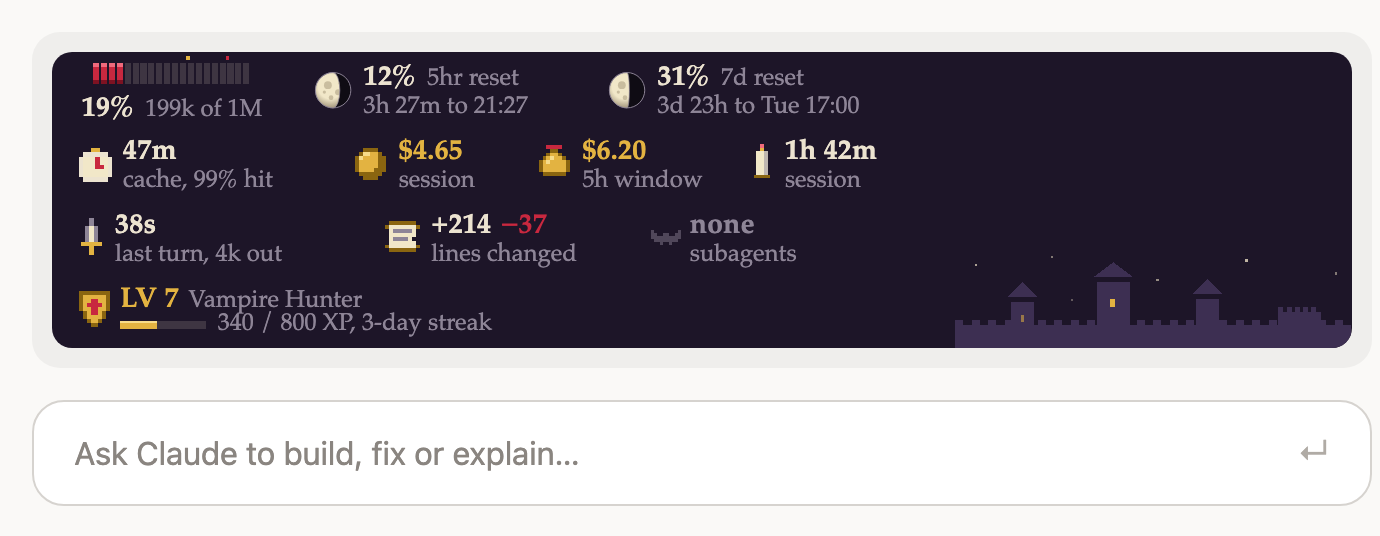
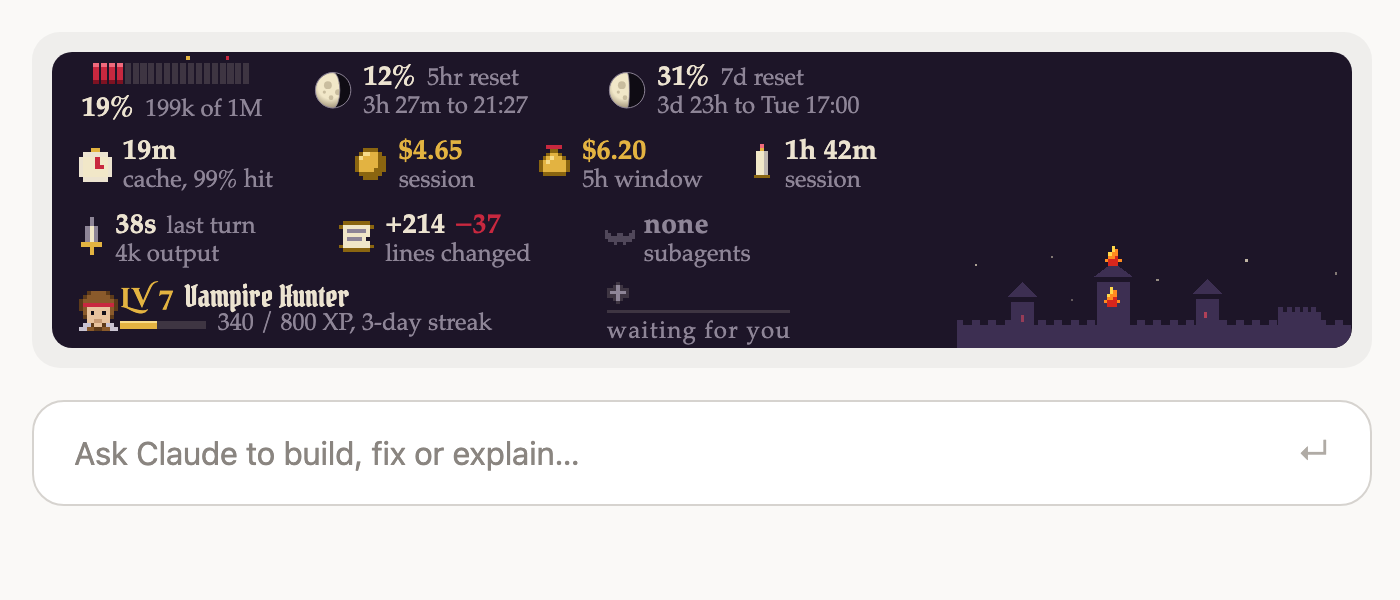
Fix seven audit findings (0.12.1)
- Level in Cinzel capitals, title in Pirata blackletter; wider estimate so the
  serif fallback is never clipped
- README/LICENSE/plugin.json: fonts are OFL-1.1, code MIT
- Re-rendered README screenshots; reset message; README cache and file notes
- Reproducible font build; bold fallback named as bold
- applyCacheTtl updates the cache as it stands when written

diff --git a/hooks/fonts.ts b/hooks/fonts.ts
@@ -1,5 +1,5 @@
 // Generated by fonts/build.py: do not edit. Trimmed, renamed copies of Pirata One (Gothic) and
 // Cinzel Decorative Bold (Capitals), both under the SIL Open Font License 1.1 (see fonts/).
 
[4 lines of base64/hex data omitted]

diff --git a/hooks/svg.ts b/hooks/svg.ts
@@ -95,10 +95,10 @@ function litMoon(cx: number, cy: number, r: number, light: number): string {
 /** `gothic`: the section's text uses the embedded display fonts, which then travel in its image. */
 type Section = { width: number; body: (x: number) => string; gothic?: boolean }
 
-// The level line's lettering: a blackletter in the Castlevania spirit, carved fantasy capitals in the Warcraft
-// spirit as its fallback, then the band's serif. Both are trimmed OFL fonts embedded in the image that uses them
+// The level line's lettering: the title in a blackletter in the Castlevania spirit, the level in carved fantasy
+// capitals in the Warcraft spirit; each falls back on the other, then the band's serif. Both are trimmed OFL fonts embedded in the image that uses them
 // (an image can't load fonts from the web): see fonts/.
-const GOTHIC_FACES = `@font-face{font-family:'CastleHud Gothic';src:url(data:font/woff2;base64,${GOTHIC_WOFF2}) format('woff2')}@font-face{font-family:'CastleHud Capitals';src:url(data:font/woff2;base64,${CAPITALS_WOFF2}) format('woff2')}.g{font-family:'CastleHud Gothic','CastleHud Capitals',Palatino,'Palatino Linotype','Book Antiqua',Georgia,serif;font-weight:400;letter-spacing:.02em}`
+const GOTHIC_FACES = `@font-face{font-family:'CastleHud Gothic';src:url(data:font/woff2;base64,${GOTHIC_WOFF2}) format('woff2')}@font-face{font-family:'CastleHud Capitals';src:url(data:font/woff2;base64,${CAPITALS_WOFF2}) format('woff2')}.g{font-family:'CastleHud Gothic','CastleHud Capitals',Palatino,'Palatino Linotype','Book Antiqua',Georgia,serif;font-weight:400;letter-spacing:.02em}.cap{font-family:'CastleHud Capitals','CastleHud Gothic',Palatino,'Palatino Linotype','Book Antiqua',Georgia,serif}`
 
 function textBlock(x: number, value: string, caption: string, valueColor = 'var(--ink)'): string {
   return `<text x="${x}" y="27" class="v" fill="${valueColor}">${esc(value)}</text><text x="${x}" y="50" class="c">${esc(caption)}</text>`
@@ -296,13 +296,15 @@ ${sprite(BAG, { X: 'var(--goldDark)', G: 'var(--gold)', H: 'var(--goldLight)', T
     const xpText = `${p.into} / ${p.need} XP${p.streak > 0 ? `, ${p.streak}-day streak` : ''}`
     const barW = 70
     const fill = Math.max(0, Math.min(1, p.need > 0 ? p.into / p.need : 0))
-    const firstW = value.length * VALUE_W + 8 + name.length * CAPTION_W
+    // The display lettering runs wider than the serif: room for the carved capitals and the blackletter, and for
+    // the serif fallback at these sizes should the fonts not load.
+    const firstW = value.length * 17 + 9 + name.length * 13
     const secondW = barW + 10 + xpText.length * CAPTION_W
     sections.push({
       width: 34 + Math.max(firstW, secondW),
       gothic: true,
       body: x => `<g transform="translate(${x} 0)">${sprite(TITLE_ICONS[p.title] ?? CREST, ICON_COLORS, 0, 14, 3.2)}
-<text x="34" y="27" class="g"><tspan fill="var(--gold)" font-size="27">${esc(value)}</tspan><tspan dx="9" font-size="24" fill="var(--ink)">${esc(name)}</tspan></text>
+<text x="34" y="27" class="g"><tspan class="cap" fill="var(--gold)" font-size="22">${esc(value)}</tspan><tspan dx="9" font-size="24" fill="var(--ink)">${esc(name)}</tspan></text>
 <rect x="34" y="38" width="${barW}" height="7" fill="var(--track)"/><rect x="34" y="38" width="${(barW * fill).toFixed(1)}" height="7" fill="var(--gold)"/><rect x="34" y="38" width="${(barW * fill).toFixed(1)}" height="2" fill="var(--goldLight)"/>
 <text x="${34 + barW + 10}" y="46" class="c">${esc(xpText)}</text></g>`,
     })

diff --git a/hooks/register.tsx b/hooks/register.tsx
@@ -516,9 +516,9 @@ async function followCacheTtl($: EngineInterface) {
 async function applyCacheTtl($: EngineInterface, ttl: number) {
   cacheTtlMs = ttl
   const c = await read($, cache)
-  if (c?.at && c.ttlMs !== cacheTtlMs) {
-    const ttlMs = cacheTtlMs
-    await update($, cache, () => ({ ...c, ttlMs }))
+  if (c?.at && c.ttlMs !== ttl) {
+    // Applied to the cache as it stands when written, not as read: a reply may have replaced it meanwhile.
+    await update($, cache, p => (p?.at ? { ...p, ttlMs: ttl } : p))
     convDirty = true
   }
 }
@@ -809,7 +809,7 @@ export const register: Register = on => {
       }
     if (arg === 'reset confirm') {
       await resetAll($)
-      return { text: 'Everything castle-hud saved is deleted. You start again at level 1.' }
+      return { text: 'Everything castle-hud recorded is deleted; your bell and cache settings stay. You start again at level 1.' }
     }
     const all = await syncProfile($, true)
     const p = await read($, profile)

diff --git a/fonts/build.py b/fonts/build.py
@@ -14,7 +14,8 @@ TEXT = ''.join(chr(c) for c in range(0x20, 0x7F))  # printable ASCII: the HUD's 
 
 
 def build(src: str, family: str) -> str:
-    font = TTFont(src)
+    # No fresh timestamp: the same sources build the same bytes.
+    font = TTFont(src, recalcTimestamp=False)
     opts = subset.Options()
     opts.flavor = 'woff2'
     opts.layout_features = ['kern', 'liga']
@@ -23,13 +24,17 @@ def build(src: str, family: str) -> str:
     s.populate(text=TEXT)
     s.subset(font)
     # A trimmed font is a modified version: it may not carry the reserved name.
+    style = str(font['name'].getDebugName(2) or 'Regular')  # Regular, Bold: kept as the source names it
     for rec in font['name'].names:
-        if rec.nameID in (1, 4, 16, 21):
+        if rec.nameID in (1, 16, 21):
             rec.string = family
+        elif rec.nameID == 4:
+            rec.string = family if style == 'Regular' else f'{family} {style}'
         elif rec.nameID in (3, 6):
-            rec.string = family.replace(' ', '') + '-Regular'
+            rec.string = family.replace(' ', '') + '-' + style.replace(' ', '')
     out = io.BytesIO()
     font.flavor = 'woff2'
+    font.recalcTimestamp = False
     font.save(out)
     return base64.b64encode(out.getvalue()).decode()
 

diff --git a/README.md b/README.md
@@ -87,7 +87,7 @@ Type `/castle` to see your level, where your XP came from and every achievement.
 
 ## Good to know
 
-- **Cache life.** Claude Code's prompt cache lasts either one hour or five minutes, depending on your account and model. The stopwatch counts down one hour from each reply unless you tell it otherwise. If your cache lasts five minutes, type `/castle cache 5m`; `/castle cache 1h` switches back, and `/castle cache` shows the current setting. The setting is remembered across sessions and kept by `/castle reset`. Claude Code reports the real cache life only when you switch model with `/model`, and the mod then updates the setting to match. A reply counts as warm when it comes within the cache's life, and the castle's fire follows the same countdown. A compaction or a model switch starts the stopwatch again.
+- **Cache life.** Claude Code's prompt cache lasts either one hour or five minutes, depending on your account and model. The stopwatch counts down one hour from each reply unless you tell it otherwise. If your cache lasts five minutes, type `/castle cache 5m`; `/castle cache 1h` switches back, and `/castle cache` shows the current setting. The setting is remembered across sessions and kept by `/castle reset`. Claude Code reports the real cache life only around a model switch (when you use `/model`, or when `/resume` restores a conversation's model), and the mod then updates the setting to match. A reply counts as warm when it comes within the cache's life, and the castle's fire follows the same countdown. A compaction or a model switch starts the stopwatch again.
 - **Subscription or API.** On a Claude subscription the band shows the moons and leaves out the coin and money bag, since you aren't billed per token. With an API key, or through a third-party provider, it shows the costs and leaves out the moons, which only a subscription has. Until the mod can tell, it shows both.
 - **The 5-hour total** counts only sessions running this mod, from when it was installed. Usage on claude.ai or in other tools isn't included.
 - **Lines changed** counts only Claude's Edit and Write tools. Files changed by shell commands such as `sed` or `git` aren't counted.
@@ -124,6 +124,9 @@ The mod is a Claude Code plugin made of function hooks:
 | `hooks/svg.ts` | The pixel-art drawing for the desktop app, and the castle |
 | `hooks/hud.ts` | Moons, the cache, line counting and formatting |
 | `hooks/xp.ts` | Levels, streaks and achievements |
+| `hooks/fonts.ts` | The level line's two fonts, trimmed and embedded (generated by `fonts/build.py`) |
+| `fonts/` | The fonts' licences and the script that builds `hooks/fonts.ts` |
+| `sounds/done.wav` | The bell |
 | `types/index.d.ts` | The mod's state, for type-checking |
 
 To try changes from a clone, start Claude Code with `claude --plugin-dir <this folder>`. To check them:
@@ -140,8 +143,8 @@ The screenshots and icons are renders of the mod's own drawing code with sample 
 
 ## Fonts
 
-The level line is lettered in two fonts under the SIL Open Font License 1.1: Pirata One by Rodrigo Fuenzalida and Nicolas Massi, with Cinzel Decorative by Natanael Gama as its fallback. The mod carries trimmed copies, renamed CastleHud Gothic and CastleHud Capitals as their licences require, with the licence texts and the build script in `fonts/`.
+The level line is lettered in two fonts under the SIL Open Font License 1.1: Pirata One by Rodrigo Fuenzalida and Nicolas Massi, with Cinzel Decorative by Natanael Gama as its fallback. The mod carries trimmed copies, renamed CastleHud Gothic and CastleHud Capitals as their licences require, with the licence texts and the build script in `fonts/`. They stay under that licence (see License below).
 
 ## License
 
-[MIT](LICENSE)
+The code is under the [MIT License](LICENSE). The fonts are not: `hooks/fonts.ts` and the files in `fonts/` are under the SIL Open Font License 1.1, whose text is in `fonts/`.

diff --git a/CHANGELOG.md b/CHANGELOG.md
@@ -1,5 +1,13 @@
 # Changelog
 
+## 0.12.1
+
+- The level is lettered in the carved capitals and the title in the blackletter, so "LV" no longer reads as "LU" and both fonts are used. The level line is sized so nothing is cut off, even if the fonts can't load.
+- The README's screenshots show the gothic lettering.
+- The licence notices say the fonts stay under the SIL Open Font License while the code is MIT.
+- The reset message says your bell and cache settings stay; the README describes when Claude Code reports the cache life and lists the font files.
+- The font build gives identical output on every run, and the bold fallback is named as bold.
+
 ## 0.12.0
 
 - The level line ("LV 5 Vampire Hunter") is lettered in a gothic blackletter, with carved fantasy capitals as its fallback. Both are open-licensed fonts, trimmed and built into that image; numbers and captions keep the serif.
